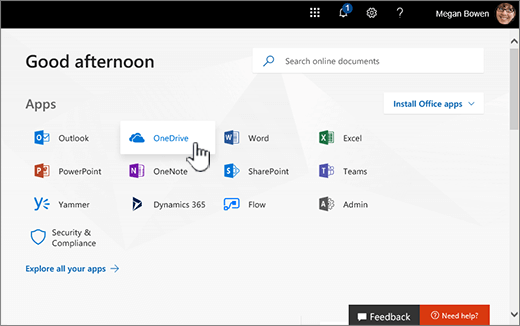
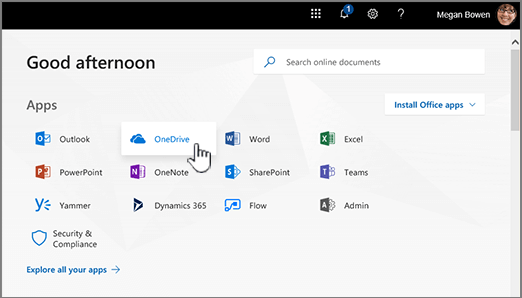
Removed screenshots with orange Need help? button

diff --git a/Office365-Admin/setup/plan-your-setup.md b/Office365-Admin/setup/plan-your-setup.md
@@ -106,8 +106,7 @@ There are a couple of scenarios that include either migrating data or users from
     
   - **Ask for help and we'll call you**. After you buy Office 365, you can access your Office 365 admin center (you don't need to run setup to get to it). At the bottom of your Office 365 admin center page, choose **Need help?** Describe your problem, and we'll call you. 
     
-    ![A picture of the Need help? button in the admin center.](../media/794c0461-5a78-4c0a-92f0-62b8c5f205e3.png)
-  
+      
   - **Call [Office 365 for Business Support](../contact-support-for-business-products.md) with your questions**. We're here to help! 
     
   - **Consider hiring a [Microsoft partner](https://go.microsoft.com/fwlink/?linkid=391089)**. If you're short on time, or have advanced requirements (like moving thousands of files to Office 365 cloud storage or integrating with other software), an experienced partner can be a big help. 
